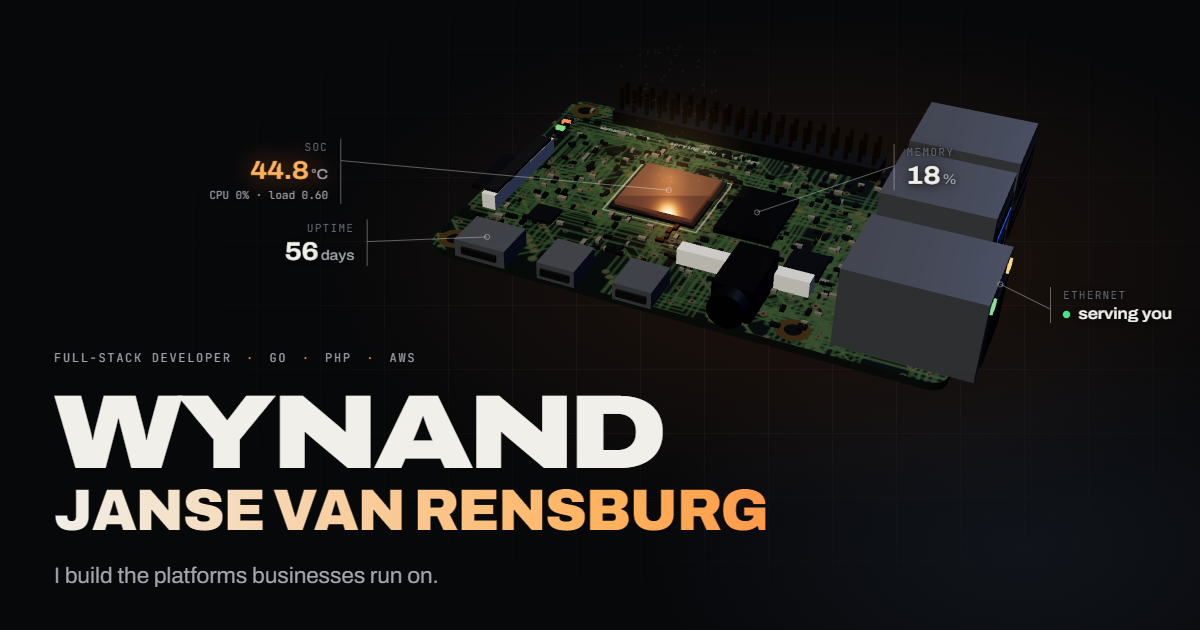
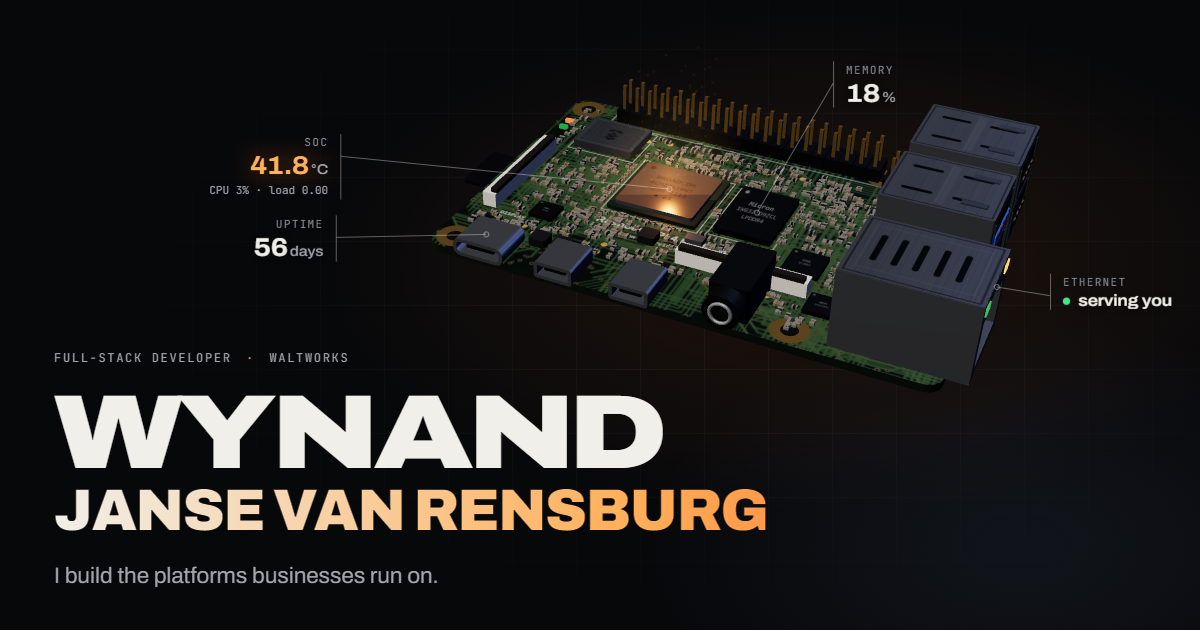
Name employer and clients, keep client-system internals private
Bring back WaltWorks, SLS Consultants, Potatoes South Africa and North-West University across the page, terminal and search metadata. Client project copy now describes outcomes and a general stack only, with architecture, internal flows and tooling details removed.

Changed region(s): [[0.185, 0.1206, 0.9867, 0.6032], [0.2158, 0.5429, 0.3392, 0.573], [0.7092, 0.0905, 0.74, 0.181]]

diff --git a/index.html b/index.html
@@ -4,7 +4,7 @@
 <meta charset="utf-8"/>
 <meta name="viewport" content="width=device-width, initial-scale=1.0, viewport-fit=cover"/>
 <title>Wynand Janse van Rensburg | Full-stack Developer</title>
-<meta name="description" content="Wynand Janse van Rensburg, full-stack developer. Go and PHP platforms, serverless on AWS, and a portfolio served live from a Raspberry Pi you can see in 3D."/>
+<meta name="description" content="Wynand Janse van Rensburg, full-stack developer at WaltWorks. Production platforms for SLS Consultants and Potatoes South Africa, and a portfolio served live from a Raspberry Pi you can see in 3D."/>
 <meta name="author" content="Wynand Janse van Rensburg"/>
 <meta name="robots" content="index, follow, max-image-preview:large"/>
 <meta name="theme-color" content="#07080a"/>
@@ -14,19 +14,19 @@
 <meta property="og:type" content="profile"/>
 <meta property="og:url" content="https://wynandcv.com/"/>
 <meta property="og:title" content="Wynand Janse van Rensburg | Full-stack Developer"/>
-<meta property="og:description" content="Full-stack developer. Go and PHP platforms, serverless on AWS, and a portfolio served live from a Raspberry Pi."/>
+<meta property="og:description" content="Full-stack developer at WaltWorks. Go and PHP platforms, serverless on AWS, and a portfolio served live from a Raspberry Pi."/>
 <meta property="og:site_name" content="Wynand Janse van Rensburg"/>
 <meta property="og:locale" content="en_ZA"/>
 <meta property="og:image" content="https://wynandcv.com/assets/og-image.png"/>
 <meta property="og:image:width" content="1200"/>
 <meta property="og:image:height" content="630"/>
-<meta property="og:image:alt" content="Wynand Janse van Rensburg, Full-stack Developer"/>
+<meta property="og:image:alt" content="Wynand Janse van Rensburg, Full-stack Developer at WaltWorks"/>
 <meta property="profile:first_name" content="Wynand"/>
 <meta property="profile:last_name" content="Janse van Rensburg"/>
 
 <meta name="twitter:card" content="summary_large_image"/>
 <meta name="twitter:title" content="Wynand Janse van Rensburg | Full-stack Developer"/>
-<meta name="twitter:description" content="Full-stack developer. Go and PHP platforms, serverless on AWS, and a portfolio served live from a Raspberry Pi."/>
+<meta name="twitter:description" content="Full-stack developer at WaltWorks. Go and PHP platforms, serverless on AWS, and a portfolio served live from a Raspberry Pi."/>
 <meta name="twitter:image" content="https://wynandcv.com/assets/og-image.png"/>
 
 <link rel="icon" type="image/x-icon" href="/favicon.ico"/>
@@ -55,7 +55,9 @@
       "url": "https://wynandcv.com/",
       "image": "https://wynandcv.com/assets/og-image.png",
       "jobTitle": "Full-stack Developer",
-      "description": "Full-stack developer building Go serverless platforms on AWS Lambda and PHP platforms with AI-assisted data processing.",
+      "worksFor": { "@type": "Organization", "name": "WaltWorks" },
+      "alumniOf": { "@type": "CollegeOrUniversity", "name": "North-West University", "sameAs": "https://www.nwu.ac.za/" },
+      "description": "Full-stack developer at WaltWorks building production platforms in Go and PHP, serverless on AWS.",
       "knowsAbout": [
         "Go", "PHP", "JavaScript", "Java", "Python",
         "AWS Lambda", "AWS SAM", "Serverless architecture",
@@ -137,7 +139,7 @@
   </div>
 
   <div class="hero__copy">
-    <p class="hero__kicker">Full-stack developer <span>·</span> Go <span>·</span> PHP <span>·</span> AWS</p>
+    <p class="hero__kicker">Full-stack developer <span>·</span> WaltWorks</p>
     <h1 class="hero__name"><span>Wynand</span> <span>Janse van Rensburg</span></h1>
     <p class="hero__line">I build the platforms businesses run on.</p>
     <div class="hero__actions">
@@ -155,14 +157,14 @@
   <article class="panel" data-project="automation" data-reveal>
     <div class="panel__copy">
       <p class="panel__n">01</p>
-      <h2 class="panel__title">Data, automated</h2>
-      <p class="panel__line">Data work that used to take people hours, now handled by an AI-assisted pipeline running in production.</p>
+      <h2 class="panel__title">SLS Consultants</h2>
+      <p class="panel__line">A production platform that takes hours of manual data work off their team, with AI doing the heavy lifting.</p>
       <ul class="panel__facts">
-        <li><b>End to end</b><span>Schema, services and interface, all mine to build</span></li>
-        <li><b>OpenAI API</b><span>Wired into the processing flow, not bolted on</span></li>
-        <li><b>PHP 8.3</b><span>Strict types, layered services, MySQL 8 on Nginx</span></li>
+        <li><b>Full stack</b><span>From the database through to the screens their team uses</span></li>
+        <li><b>AI-assisted</b><span>Automates work that used to be done by hand</span></li>
+        <li><b>In production</b><span>Live and in daily use since 2026</span></li>
       </ul>
-      <p class="panel__stack">PHP 8.3 · MySQL · OpenAI API · <span>Client work, 2026 to now</span></p>
+      <p class="panel__stack">PHP · MySQL · AI · <span>WaltWorks, 2026 to now</span></p>
       <button class="panel__more" data-open="automation">The detail <span aria-hidden="true">→</span></button>
     </div>
     <div class="panel__viz" aria-hidden="true">
@@ -198,14 +200,14 @@
   <article class="panel panel--flip" data-project="portals" data-reveal>
     <div class="panel__copy">
       <p class="panel__n">02</p>
-      <h2 class="panel__title">Eleven portals, one&nbsp;codebase</h2>
-      <p class="panel__line">Eleven independent web portals on AWS Lambda, all built from one shared Go package.</p>
+      <h2 class="panel__title">Potatoes South&nbsp;Africa</h2>
+      <p class="panel__line">Eleven web portals for the industry body, running serverless on AWS.</p>
       <ul class="panel__facts">
-        <li><b>11 deploys</b><span>Each portal ships on its own with AWS SAM</span></li>
-        <li><b>No SPA</b><span>Server-rendered with templ and HTMX, fast by default</span></li>
-        <li><b>Type-safe SQL</b><span>Queries generated with SQLC on PostgreSQL</span></li>
+        <li><b>11 portals</b><span>One shared codebase behind all of them</span></li>
+        <li><b>Serverless</b><span>Scales with demand, nothing idle to pay for</span></li>
+        <li><b>Fast</b><span>Server-rendered pages, no heavy front end</span></li>
       </ul>
-      <p class="panel__stack">Go · AWS Lambda · HTMX · PostgreSQL · <span>Client work, 2025 to 2026</span></p>
+      <p class="panel__stack">Go · AWS Lambda · HTMX · <span>WaltWorks, 2025 to 2026</span></p>
       <button class="panel__more" data-open="portals">The detail <span aria-hidden="true">→</span></button>
     </div>
     <div class="panel__viz" aria-hidden="true">
@@ -277,7 +279,7 @@
 
   <div class="more" data-reveal>
     <p class="more__k">Also</p>
-    <button class="more__item" data-open="gym">Gym platform <span>React · MySQL · MongoDB</span></button>
+    <button class="more__item" data-open="gym">FIT@NWU <span>React · MySQL · MongoDB</span></button>
     <button class="more__item" data-open="bombfinder">Bomb Finder <span>Java</span></button>
     <button class="more__item" data-open="portfolio">This site <span>no frameworks, one Pi</span></button>
   </div>
@@ -291,8 +293,8 @@
     <span>HTMX</span> <span>JavaScript</span> <span>Docker</span> <span>Linux</span>
   </p>
   <dl class="stack__cv">
-    <div><dt>2025 to now</dt><dd>Full-stack developer, client platforms</dd></div>
-    <div><dt>2023 to 2025</dt><dd>BSc Information Technology</dd></div>
+    <div><dt>2025 to now</dt><dd>Full-stack Developer, WaltWorks</dd></div>
+    <div><dt>2023 to 2025</dt><dd>BSc Information Technology, North-West University</dd></div>
   </dl>
 </section>
 

diff --git a/assets/js/content.js b/assets/js/content.js
@@ -25,7 +25,7 @@
         { name: 'HTMX', level: 85, note: 'Server-driven UI without a SPA' },
         { name: 'templ', level: 80, note: 'Type-safe Go HTML templates' },
         { name: 'Alpine.js', level: 75, note: 'Lightweight client-side interactivity' },
-        { name: 'React', level: 65, note: 'Analytics dashboards' }
+        { name: 'React', level: 65, note: 'FIT@NWU analytics dashboards' }
       ]
     },
     {
@@ -55,39 +55,35 @@
   const PROJECTS = [
     {
       id: 'automation',
-      title: 'Data automation platform',
-      year: 'Client work, 2026 to now',
-      blurb: 'A production PHP and MySQL platform that uses AI to automate data processing that used to be done by hand.',
-      tags: ['PHP', 'MySQL', 'OpenAI API', 'Tailwind'],
+      title: 'SLS Consultants',
+      year: 'WaltWorks, 2026 to now',
+      blurb: 'A production platform for SLS Consultants that uses AI to take hours of manual data work off their team.',
+      tags: ['PHP', 'MySQL', 'AI'],
       detail: [
-        'A production platform for a professional services client, built on PHP 8.3 with strict types and MySQL 8, deployed to Nginx and PHP-FPM on Ubuntu.',
-        'I work on it across the full stack: database schema and migrations, the service layer, and the front end on top. The OpenAI API automates processing that would otherwise be manual.'
+        'A production platform built for SLS Consultants at WaltWorks. It uses AI to automate data work their team used to do by hand.',
+        'I work on it across the full stack, from the database through to the interface their team uses every day.'
       ],
       points: [
-        'PHP 8.3 with strict types, organised as controllers, services and models',
-        'MySQL 8 schema design with versioned migrations',
-        'OpenAI API integration for automated data processing',
-        'Tailwind front end with vanilla JavaScript, no SPA framework',
-        'Deployed to Nginx and PHP-FPM on Ubuntu'
+        'Full-stack ownership of features, from database to interface',
+        'AI-assisted automation of previously manual work',
+        'Running in production since 2026'
       ]
     },
     {
       id: 'portals',
-      title: 'Serverless portal suite',
-      year: 'Client work, 2025 to 2026',
-      blurb: 'Eleven serverless portals on one shared Go codebase, server-rendered with templ and HTMX instead of a SPA framework.',
-      tags: ['Go', 'AWS Lambda', 'HTMX', 'PostgreSQL'],
+      title: 'Potatoes South Africa',
+      year: 'WaltWorks, 2025 to 2026',
+      blurb: 'Eleven web portals for Potatoes South Africa, running serverless on AWS from one shared Go codebase.',
+      tags: ['Go', 'AWS Lambda', 'HTMX'],
       detail: [
-        'A suite of eleven web portals for a large membership organisation, each a standalone AWS SAM deployment sharing a common Go package. Go with Echo and templ on the backend, HTMX and Alpine.js on the front end, PostgreSQL underneath with SQLC generating the query layer.',
-        'My work ran across most of the portals, from database migrations and service logic through to the interface.'
+        'A suite of eleven web portals built for Potatoes South Africa at WaltWorks, running serverless on AWS Lambda.',
+        'I built features across most of the portals, from the data layer through to the pages their members and staff use.'
       ],
       points: [
-        'Eleven standalone AWS SAM deployments sharing one Go package',
-        'Multi-step verification flows with document upload, approval and rejection paths',
-        'Reporting dashboards with aggregated figures and monitoring views',
-        'Group messaging with a cross-portal notification system',
-        'Third-party accounting integration and automated email reports',
-        'Type-safe query layer generated with SQLC, plus database migrations'
+        'Eleven portals sharing one Go codebase',
+        'Serverless on AWS Lambda, scaling with demand',
+        'Server-rendered pages for a fast, light front end',
+        'Dashboards, reporting and member-facing workflows'
       ]
     },
     {
@@ -128,9 +124,9 @@
     },
     {
       id: 'gym',
-      title: 'Gym management platform',
+      title: 'FIT@NWU',
       year: 'University team project',
-      blurb: 'Bookings, member management and React analytics dashboards for a campus gym.',
+      blurb: 'Bookings, member management and React analytics dashboards for the North-West University gym.',
       tags: ['React', 'MySQL', 'MongoDB'],
       detail: [
         'A gym management application covering the whole member lifecycle: sign-up, class and equipment bookings, and the analytics staff need to run the facility.',

diff --git a/assets/js/terminal.js b/assets/js/terminal.js
@@ -50,13 +50,13 @@
       run() {
         printLines([
           '<span class="c-text">Wynand Janse van Rensburg</span>',
-          '<span class="c-dim">Full-stack developer</span>',
+          '<span class="c-dim">Full-stack Developer at WaltWorks</span>',
           '',
           'I build client platforms end to end. Since 2025 I have shipped into two',
-          'production systems: a suite of eleven serverless Go portals on AWS Lambda,',
-          'and a PHP platform that uses AI to automate manual data processing.',
+          'production systems: eleven serverless portals for Potatoes South Africa,',
+          'and a platform for SLS Consultants that uses AI to automate manual work.',
           '',
-          'BSc Information Technology, 2025.',
+          'BSc Information Technology, North-West University, 2025.',
           '',
           '<span class="c-dim">Try:</span> <span class="c-accent">skills</span>, <span class="c-accent">projects</span>, <span class="c-accent">stats</span>, <span class="c-accent">contact</span>'
         ]);
@@ -67,7 +67,7 @@
       desc: 'Background and current work',
       run() {
         printLines([
-          'Full-stack developer since 2025.',
+          'Full-stack developer at WaltWorks since 2025.',
           '',
           'I work across the whole stack: database schema and migrations, backend services',
           'and APIs, and the front end sitting on top of them. Day to day that means Go on',
@@ -143,10 +143,10 @@
       desc: 'Education and milestones',
       run() {
         printTable([
-          ['2025-now', 'Full-stack developer, client platforms'],
-          ['2026-now', 'Data automation platform (PHP 8.3, MySQL, OpenAI API)'],
-          ['2025-26', 'Serverless portal suite (Go, templ, HTMX, AWS Lambda)'],
-          ['2023-25', 'BSc Information Technology'],
+          ['2025-now', 'Full-stack Developer at WaltWorks'],
+          ['2026-now', 'SLS Consultants platform (PHP, MySQL, AI)'],
+          ['2025-26', 'Potatoes South Africa portals (Go, AWS Lambda)'],
+          ['2023-25', 'BSc Information Technology, North-West University'],
           ['Ongoing', 'Self-hosted infrastructure on Linux, Docker and Raspberry Pi']
         ]);
       }
